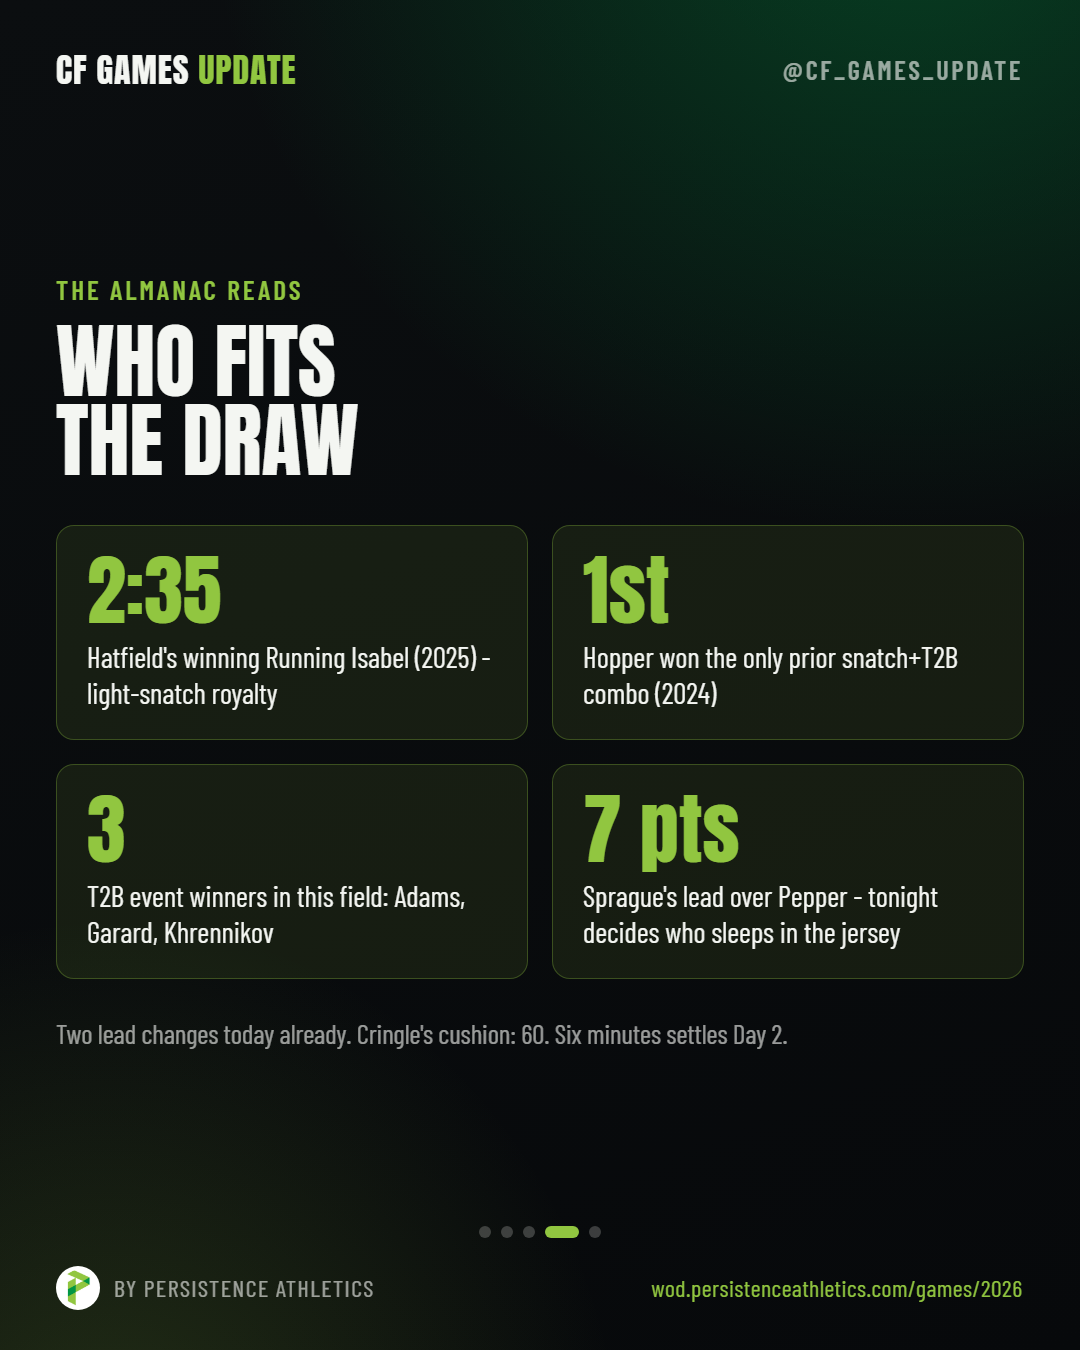
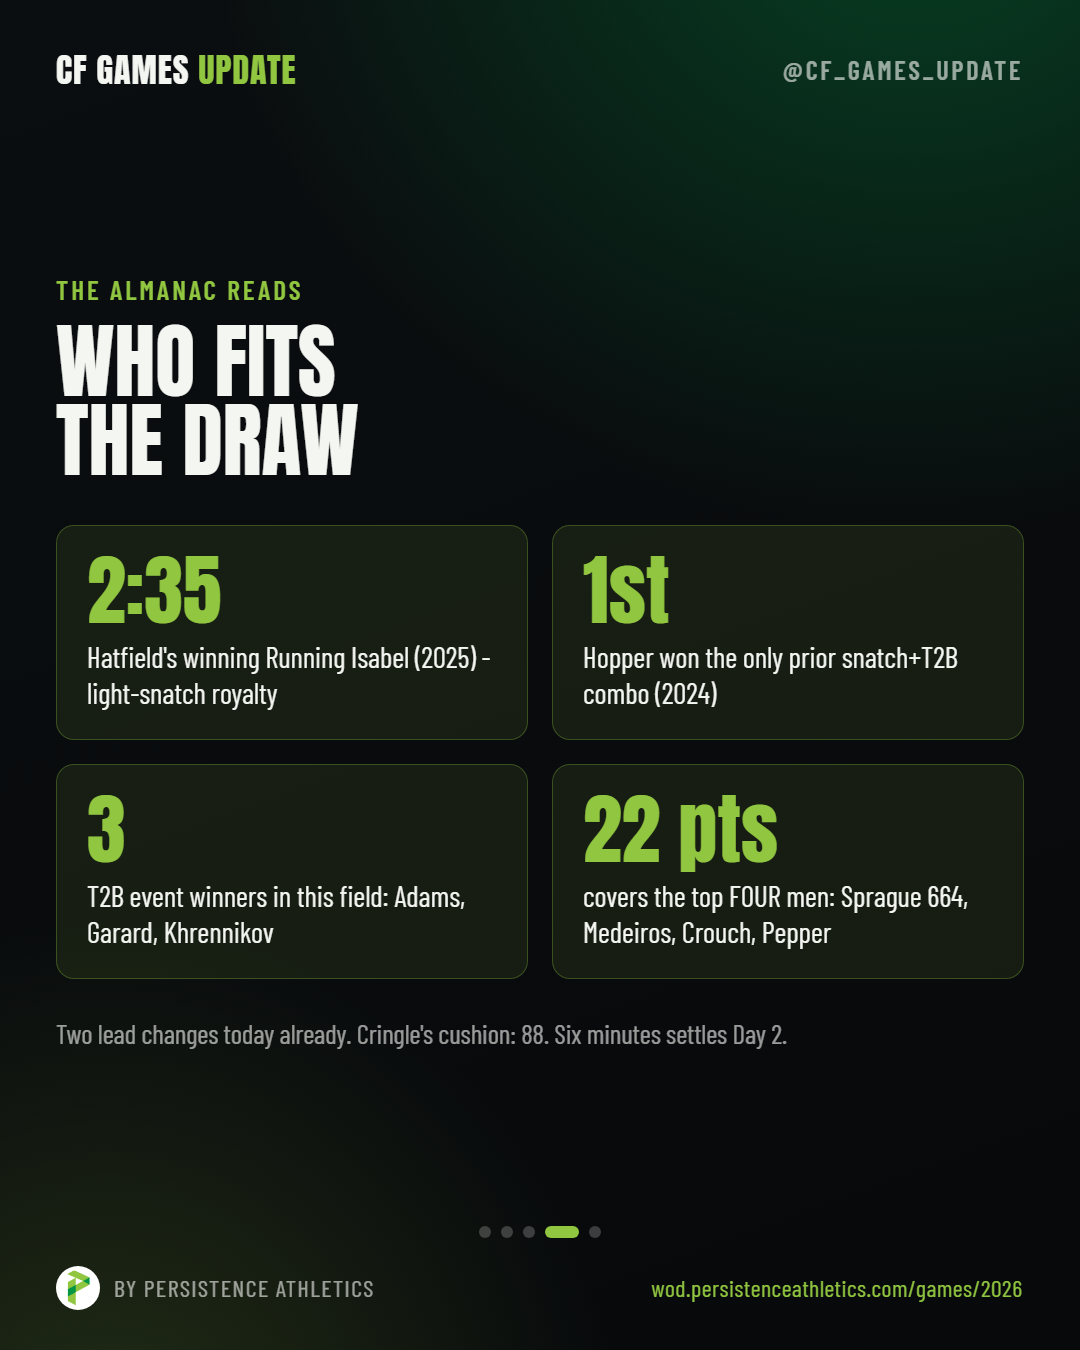
Hopper preview stakes updated post-revision: top 4 in 22 pts, Cringle 88
Slide 4 + caption now reflect revised official standings (was 7-pt Sprague-
Pepper / cushion 60 from the after-10 state). Also repairs two apostrophe
escapes corrupted during the hotfix.

Changed region(s): [[0.5194, 0.5911, 0.8861, 0.7156]]

diff --git a/src/games/CardStudio.tsx b/src/games/CardStudio.tsx
@@ -327,7 +327,7 @@ const CAROUSELS: Carousel[] = [
         { big: '6/7', label: 'events tested pure strength or pure engine' },
         { big: '1 pt', label: 'separates Sprague and Pepper atop the men' },
         { big: '69s', label: "Campbell's winning margin in the swim" },
-        { big: '10 to 1', label: "Cringle's climb from the opener to the lead" },
+        { big: '10 to 1', label: "Cringle\'s climb from the opener to the lead" },
       ] },
       { type: 'point', num: 1, kicker: 'The Pivot', headline: 'THE SWIM\nDECIDED IT', body: "Both Day 1 leaders were made in the water. Lucy Campbell, a former international swimmer, won the women's Swim Standard by 69 seconds. Ty Jenkins, a three-time teen world champion, won the men's. The event flipped both boards - Crouch lost the men's lead, Campbell seized second - and proved again that swimming is the one CrossFit skill you cannot fake.", source: 'Official CrossFit Games leaderboard' },
       { type: 'point', num: 2, kicker: 'Friday - The Arena', headline: 'WHAT FRIDAY\nCHANGES', body: 'Day 1 gave 6 of 7 events to raw strength and raw engine. Friday opens the arena (Events 8-12), historically where the Games test the middle Day 1 skipped: high-skill gymnastics, barbell cycling, and mixed triplets under fatigue. The exact workouts are not announced yet (two are FloElite exclusives), but the modality math is clear - the specialists who feasted on Day 1 now face the tests they like least.', source: 'Broadcast schedule + Persistence Athletics model' },
@@ -339,7 +339,7 @@ const CAROUSELS: Carousel[] = [
     id: 'hopper-final',
     label: 'The Hopper 2026 - workout is SET',
     caption:
-      "THE HOPPER WORKOUT IS SET. The barrel gave the movements this morning - the vote just gave the structure. Event 12, tonight's closer:\n\n3 ROUNDS FOR TIME\n21 toes-to-bars\n7 UNBROKEN power snatches\n7 UNBROKEN hang snatches\n7 UNBROKEN squat snatches\n95 lb men / 65 lb women. 6-MINUTE CAP.\n\nRead that again: UNBROKEN. Drop the bar on rep six and the set restarts. This is not a strength test - at 95/65 it's a discipline sprint. Sixty-three toes-to-bars frying your grip, then three snatch complexes your hands are not allowed to fail.\n\nThis is EXACTLY the scenario we mapped this morning: light and fast, Isabel-family. The reads from our almanac: Hatfield (won 2025's Running Isabel), Medeiros (the barbell cycler's cycler), and the toes-to-bar owners - Adams (won the 2022 T2B test), Garard, Khrennikov. And remember who won the only prior snatch+T2B combo at the Games: Jayson Hopper, 2024.\n\nThe stakes could not be bigger: Sprague leads Pepper by SEVEN points. Cringle's cushion is 60. Lead has changed twice today already. Six minutes, under the lights, on a workout that did not exist this morning.\n\nThe original hopper built this sport in 2007. Tonight it closes the loudest day of the 2026 Games. Full analysis on the site.",
+      "THE HOPPER WORKOUT IS SET. The barrel gave the movements this morning - the vote just gave the structure. Event 12, tonight's closer:\n\n3 ROUNDS FOR TIME\n21 toes-to-bars\n7 UNBROKEN power snatches\n7 UNBROKEN hang snatches\n7 UNBROKEN squat snatches\n95 lb men / 65 lb women. 6-MINUTE CAP.\n\nRead that again: UNBROKEN. Drop the bar on rep six and the set restarts. This is not a strength test - at 95/65 it's a discipline sprint. Sixty-three toes-to-bars frying your grip, then three snatch complexes your hands are not allowed to fail.\n\nThis is EXACTLY the scenario we mapped this morning: light and fast, Isabel-family. The reads from our almanac: Hatfield (won 2025's Running Isabel), Medeiros (the barbell cycler's cycler), and the toes-to-bar owners - Adams (won the 2022 T2B test), Garard, Khrennikov. And remember who won the only prior snatch+T2B combo at the Games: Jayson Hopper, 2024.\n\nThe stakes could not be bigger: the top FOUR men sit within 22 points (Sprague 664). Cringle\'s cushion is 88. Lead has changed twice today already. Six minutes, under the lights, on a workout that did not exist this morning.\n\nThe original hopper built this sport in 2007. Tonight it closes the loudest day of the 2026 Games. Full analysis on the site.",
     slides: [
       { type: 'cover', kicker: 'Event 12 - Tonight\'s Closer', headline: 'THE HOPPER\nIS SET', sub: 'The barrel gave the movements. The vote gave the structure. Six minutes, unbroken snatches, and a 7-point lead on the line. Swipe.' },
       { type: 'point', num: 1, kicker: 'The Drawn Workout', headline: '3 ROUNDS.\n6 MINUTES.', body: '21 toes-to-bars, then 7 UNBROKEN power snatches, 7 UNBROKEN hang snatches, 7 UNBROKEN squat snatches. 95 lb men, 65 lb women, 6-minute cap. The unbroken rule is the event: drop the bar mid-set and the set restarts. Announced from the arena via Morning Chalk Up.', source: 'Hopper draw + fan vote (per Morning Chalk Up)' },
@@ -348,8 +348,8 @@ const CAROUSELS: Carousel[] = [
         { big: '2:35', label: 'Hatfield\'s winning Running Isabel (2025) - light-snatch royalty' },
         { big: '1st', label: 'Hopper won the only prior snatch+T2B combo (2024)' },
         { big: '3', label: 'T2B event winners in this field: Adams, Garard, Khrennikov' },
-        { big: '7 pts', label: 'Sprague\'s lead over Pepper - tonight decides who sleeps in the jersey' },
-      ], footnote: 'Two lead changes today already. Cringle\'s cushion: 60. Six minutes settles Day 2.' },
+        { big: '22 pts', label: 'covers the top FOUR men: Sprague 664, Medeiros, Crouch, Pepper' },
+      ], footnote: 'Two lead changes today already. Cringle\'s cushion: 88. Six minutes settles Day 2.' },
       { type: 'cta', headline: 'CARDS AT\nTHE BUZZER', body: 'Results + updated boards the moment tonight\'s closer goes official. The barrel that built the sport in 2007 closes the loudest day of 2026. Link in bio.' },
     ],
   },
